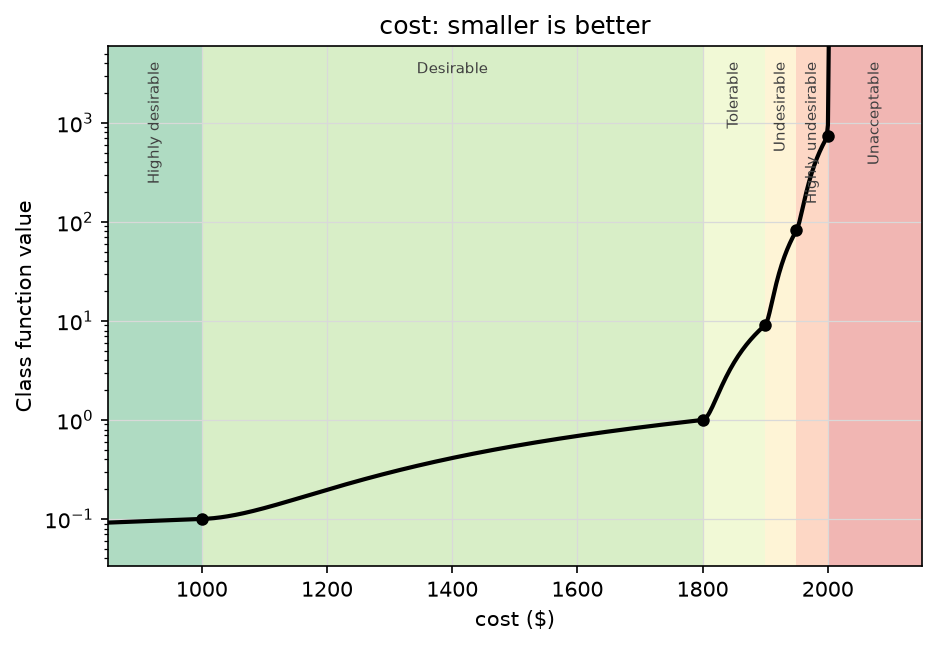
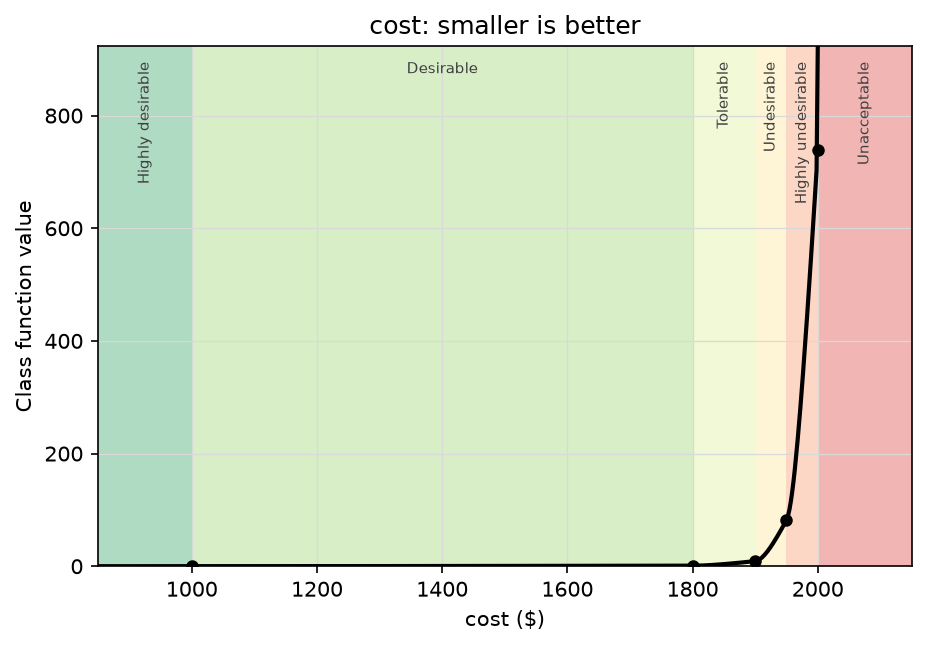
Add yscale option to class function plots; use linear in README figures
A log y axis keeps every preference region legible but makes the convex
class functions look bulged between bounds. plot_class_function,
plot_class_functions and ClassFunction.plot now take yscale="log" (the
default) or "linear". The single-function README figures use linear to
show the true convex shape; the grid stays on log, and the README
explains the difference.

diff --git a/physprog/plots.py b/physprog/plots.py
@@ -75,6 +75,7 @@ def plot_class_function(
     label_regions=True,
     markers=None,
     legend=True,
+    yscale="log",
     fname=None,
     show=None,
 ):
@@ -94,6 +95,11 @@ def plot_class_function(
         designs. Labels containing "initial" are drawn hollow.
     legend : bool
         Add a legend for the markers.
+    yscale : {"log", "linear"}
+        A log axis shows every region legibly, since each region's values
+        are many times the previous one's, but it makes the convex curves
+        look bulged. A linear axis shows their true convex shape, with the
+        better regions squashed near zero.
     fname : str, optional
         Save the figure to this file.
     show : bool, optional
@@ -112,7 +118,12 @@ def plot_class_function(
     lo, hi = _plot_range(func, extra=markers.values())
     x = np.linspace(lo, hi, 600)
     y = np.array([func.evaluate(xi) for xi in x])
-    ymax = func.gis[-1] * 8
+    if yscale == "log":
+        ymin, ymax = func.gis[0] / 3, func.gis[-1] * 8
+    elif yscale == "linear":
+        ymin, ymax = 0.0, func.gis[-1] * 1.25
+    else:
+        raise ValueError(f"yscale must be 'log' or 'linear', got {yscale!r}")
 
     for left, right, i in region_spans(func, lo, hi):
         ax.axvspan(left, right, color=REGION_COLORS[i], alpha=0.35, lw=0)
@@ -158,8 +169,8 @@ def plot_class_function(
             label=marker_label,
         )
 
-    ax.set_yscale("log")
-    ax.set_ylim(func.gis[0] / 3, ymax)
+    ax.set_yscale(yscale)
+    ax.set_ylim(ymin, ymax)
     ax.set_xlim(lo, hi)
     ax.set_xlabel(_axis_label(func))
     ax.set_ylabel("Class function value")
@@ -176,7 +187,14 @@ def plot_class_function(
 
 
 def plot_class_functions(
-    preferences, initials=None, finals=None, *, ncols=2, fname=None, show=None
+    preferences,
+    initials=None,
+    finals=None,
+    *,
+    ncols=2,
+    yscale="log",
+    fname=None,
+    show=None,
 ):
     """
     Plot every soft class function in ``preferences`` in a grid.
@@ -202,7 +220,12 @@ def plot_class_functions(
         if finals is not None:
             markers["Final"] = finals[name]
         plot_class_function(
-            func, ax=ax, label_regions=False, markers=markers, legend=False
+            func,
+            ax=ax,
+            label_regions=False,
+            markers=markers,
+            legend=False,
+            yscale=yscale,
         )
     for ax in axes.flat[len(soft) :]:
         ax.set_visible(False)

diff --git a/scripts/make_readme_plots.py b/scripts/make_readme_plots.py
@@ -20,9 +20,13 @@ def main():
     """Build every README figure."""
     prefs = classfunctions.from_input(SAMPLE_INPUT)
 
-    plots.plot_class_function(prefs["cost"], fname=ASSETS / "class-function-cost.png")
     plots.plot_class_function(
-        prefs["frequency"], fname=ASSETS / "class-function-frequency.png"
+        prefs["cost"], yscale="linear", fname=ASSETS / "class-function-cost.png"
+    )
+    plots.plot_class_function(
+        prefs["frequency"],
+        yscale="linear",
+        fname=ASSETS / "class-function-frequency.png",
     )
 
     plot_two_sided()
@@ -51,8 +55,8 @@ def plot_two_sided():
     classfunctions.build_all_splines([value, in_range])
 
     fig, axes = plt.subplots(1, 2, figsize=(13, 4.5))
-    plots.plot_class_function(value, ax=axes[0])
-    plots.plot_class_function(in_range, ax=axes[1])
+    plots.plot_class_function(value, ax=axes[0], yscale="linear")
+    plots.plot_class_function(in_range, ax=axes[1], yscale="linear")
     fig.tight_layout()
     fig.savefig(ASSETS / "class-function-two-sided.png", dpi=150, bbox_inches="tight")
 

diff --git a/physprog/tests/test_sample_problem.py b/physprog/tests/test_sample_problem.py
@@ -75,9 +75,14 @@ def test_plots_render(tmp_path):
     final = {name: getattr(beam, name)() for name in prefs}
 
     plots.plot_class_function(prefs["cost"], fname=tmp_path / "one.png")
+    plots.plot_class_function(
+        prefs["mass"], yscale="linear", fname=tmp_path / "linear.png"
+    )
+    with pytest.raises(ValueError, match="yscale"):
+        plots.plot_class_function(prefs["cost"], yscale="symlog", show=False)
     plots.plot_class_functions(prefs, initial, final, fname=tmp_path / "grid.png")
     plots.plot_optimization_results(prefs, initial, final, fname=tmp_path / "r.png")
-    assert len(list(tmp_path.glob("*.png"))) == 3
+    assert len(list(tmp_path.glob("*.png"))) == 4
 
 
 SampleDesign = namedtuple("SampleDesign", ["d1", "d2", "d3", "b", "L"])

diff --git a/physprog/classfunctions.py b/physprog/classfunctions.py
@@ -221,11 +221,11 @@ class SmoothClassFunction(ClassFunction):
         """Determine which region the value g is in."""
         raise NotImplementedError
 
-    def plot(self, fname=None):
+    def plot(self, fname=None, yscale="log"):
         """Plot this class function, saving to ``fname`` or showing it."""
         from physprog import plots  # noqa: PLC0415  (lazy: keep matplotlib optional)
 
-        plots.plot_class_function(self, fname=fname)
+        plots.plot_class_function(self, fname=fname, yscale=yscale)
 
     def acceptability(self, g):
         """

diff --git a/README.md b/README.md
@@ -167,7 +167,12 @@ preferences["cost"].plot()  # or plot(fname='cost.png')
 
 ![Larger-is-better class function for frequency](./assets/class-function-frequency.png "Larger is better")
 
-The y axis is logarithmic, and the black dots mark the region boundaries.
+The black dots mark the region boundaries. Class functions are convex, but
+each region's values are several times the previous region's, so on a linear
+axis (as here) the better regions sit nearly flat near zero. Pass
+`yscale="log"` (the default for the plot functions) to see every region
+clearly. A log axis makes the convex curves look bulged between the bounds,
+as in the grid of sample class functions further down.
 
 Two-sided preferences join a larger-is-better curve and a smaller-is-better
 curve around the highly desirable region. *Value is better* dips to
@@ -254,6 +259,8 @@ plots.plot_class_functions(preferences, initial, final)
 ```
 
 ![Sample problem class functions with initial and final designs](./assets/sample-class-functions.png "Sample problem class functions")
+
+This grid uses a log y axis so the shapes in every region are visible.
 
 The README figures are regenerated with `uv run python scripts/make_readme_plots.py`.
 
